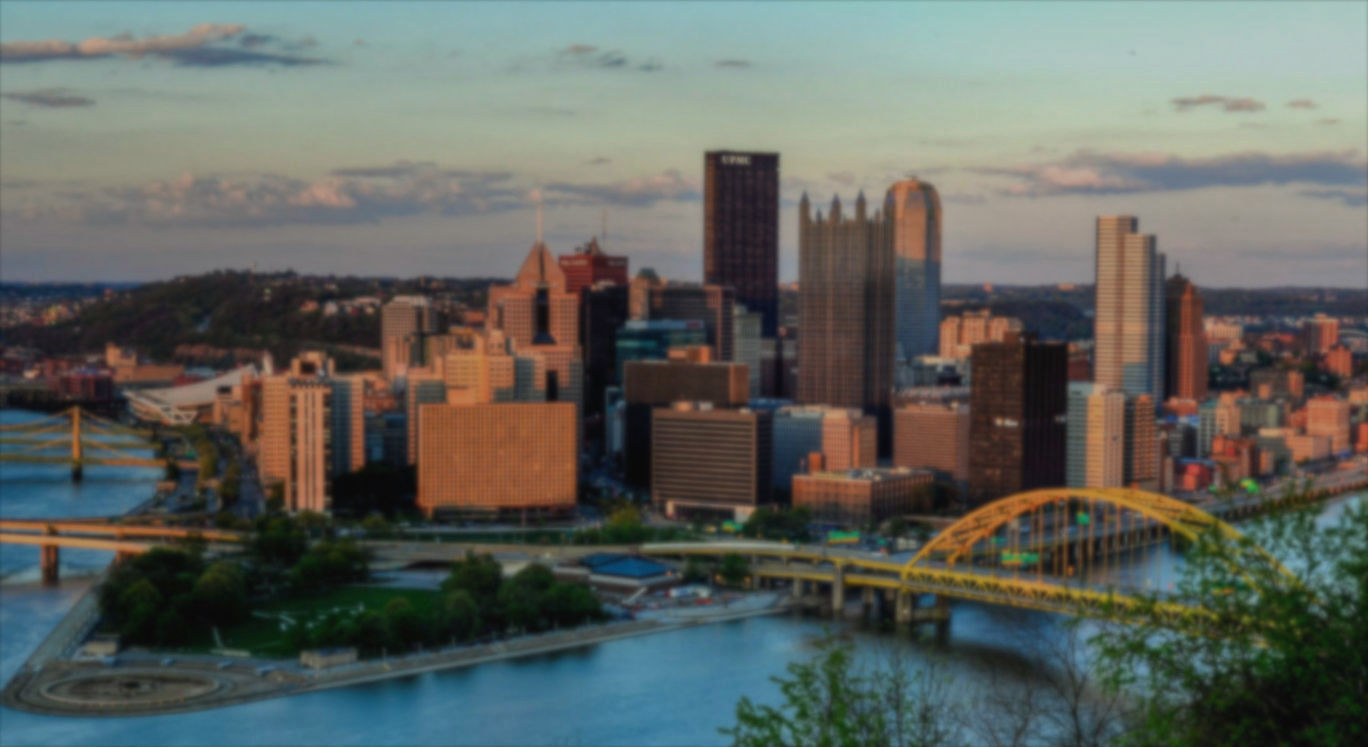
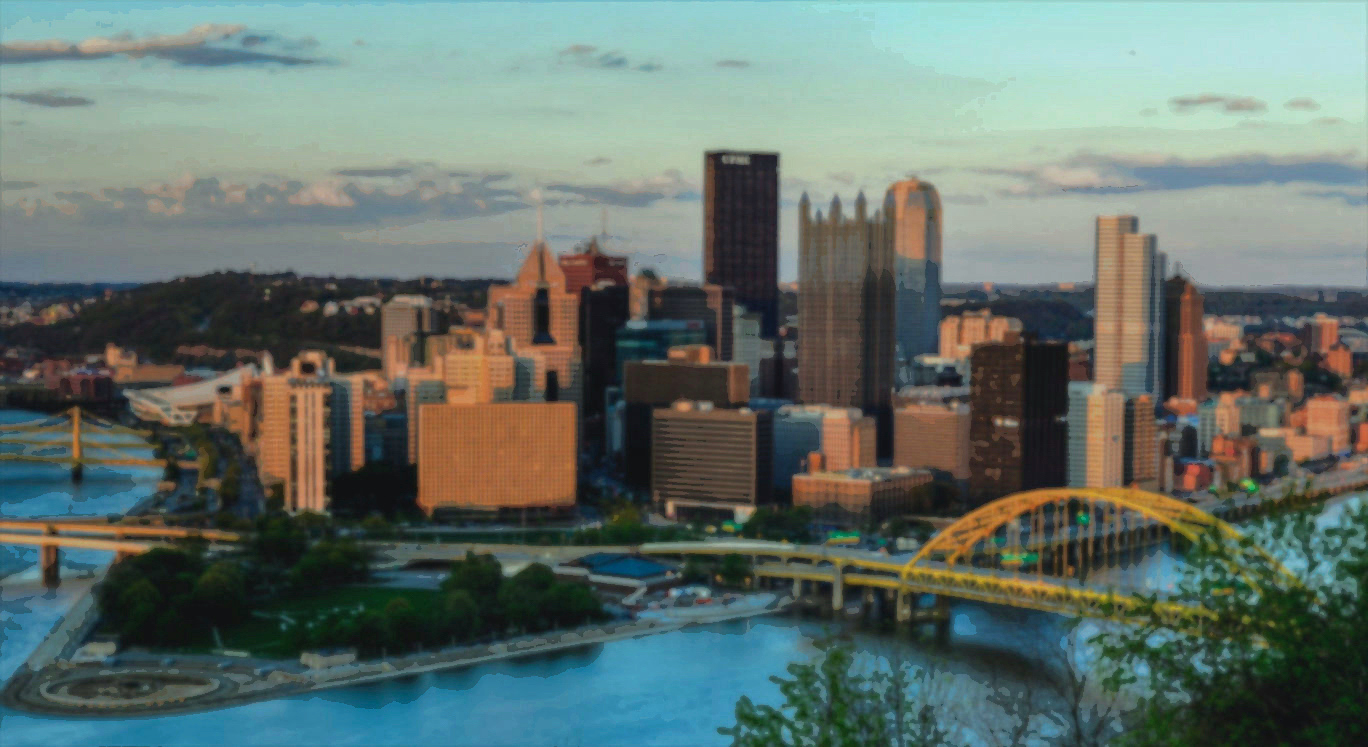
Increased project card size. Edited background image.

diff --git a/index.html b/index.html
@@ -29,7 +29,7 @@
     <link href="https://fonts.googleapis.com/css?family=Josefin+Sans|Shadows+Into+Light" rel="stylesheet">
 
     <!-- Theme CSS -->
-    <link href="css/grayscale.css" rel="stylesheet">
+    <link href="css/oneplus.css" rel="stylesheet">
 
     <!-- HTML5 Shim and Respond.js IE8 support of HTML5 elements and media queries -->
     <!-- WARNING: Respond.js doesn't work if you view the page via file:// -->
@@ -158,7 +158,7 @@
         <h2>VOLUNTEER PROJECTS</h2>
         <br>
         <div class="row sites">
-            <div class="col-md-2">
+            <div class="col-md-3">
                 <div class="w3-card-4 site-card">
                     <h4>52Lots: African Healing Garden</h4>
                     <h6>*Family-friendly</h6>
@@ -166,177 +166,177 @@
                 </div>
             </div>
 
-            <div class="col-md-2">
+            <div class="col-md-3">
                 <div class="w3-card-4 site-card">
                     <h4>Access Mob Pittsburgh</h4>
                     <h6>*Family-friendly</h6>
                     <button type="button" class="btn btn-circle-white" data-toggle="tooltip" data-placement="right" title="Activities may vary but might include; landscaping (weather dependent), making enrichment items for cats and rabbits, shelter cleaning, donation sorting. Day includes a tour of the facility and a supervised animal interaction."><i class="fa fa-info-circle"></i></button></div>
             </div>
 
-            <div class="col-md-2">
+            <div class="col-md-3">
                 <div class="w3-card-4 site-card">
                     <h4>Animal Friends</h4>
                     <h6>*Family-friendly</h6>
                     <button type="button" class="btn btn-circle-white" data-toggle="tooltip" data-placement="right" title="Outdoor trail maintenance."><i class="fa fa-info-circle"></i></button></div>
             </div>
 
-            <div class="col-md-2">
+            <div class="col-md-3">
                 <div class="w3-card-4 site-card">
                     <h4>Arsenal Family &amp; Children's Center</h4>
                     <button type="button" class="btn btn-circle-white" data-toggle="tooltip" data-placement="right" title="Outdoor beautification - includes raking, mulching, sweeping, weeding, and general cleaning."><i class="fa fa-info-circle"></i></button></div>
             </div>
 
-            <div class="col-md-2">
+            <div class="col-md-3">
                 <div class="w3-card-4 site-card">
                     <h4>Beechview Urban Garden Group Yinzers</h4>
                     <h6>*Family-friendly</h6>
                     <button type="button" class="btn btn-circle-white" data-toggle="tooltip" data-placement="right" title="Outdoor beautification, including mulching, weeding, clearing out garden beds, and general gardening work."><i class="fa fa-info-circle"></i></button></div>
             </div>
 
-            <div class="col-md-2">
+            <div class="col-md-3">
                 <div class="w3-card-4 site-card">
                     <h4>Borough of Wilkinsburg</h4>
                     <h6>*Family-friendly</h6>
                     <button type="button" class="btn btn-circle-white" data-toggle="tooltip" data-placement="left" title="Clearing trails, cutting brush, chipping brush, splitting logs with log splitter, removing pool cover, landscaping, litter pickup, stream bank work, painting."><i class="fa fa-info-circle"></i></button></div>
             </div>
 
-            <div class="col-md-2">
+            <div class="col-md-3">
                 <div class="w3-card-4 site-card">
                     <h4>Camp Guyasuta, BSA</h4>
                     <h6>*Family-friendly</h6>
                     <button type="button" class="btn btn-circle-white" data-toggle="tooltip" data-placement="right" title="Cleaning books, checking to be sure all labels are in place, pulling any that are damaged, being sure books are in order."><i class="fa fa-info-circle"></i></button></div>
             </div>
 
-            <div class="col-md-2">
+            <div class="col-md-3">
                 <div class="w3-card-4 site-card">
                     <h4>CMU Children's School</h4>
                     <h6>*Family-friendly</h6>
                     <button type="button" class="btn btn-circle-white" data-toggle="tooltip" data-placement="right" title="Spring garden clean-up, planting of new plants, outdoor beautification."><i class="fa fa-info-circle"></i></button></div>
             </div>
 
-            <div class="col-md-2">
+            <div class="col-md-3">
                 <div class="w3-card-4 site-card">
                     <h4>De Ruad Resident Council</h4>
                     <h6>*Family-friendly</h6>
                     <button type="button" class="btn btn-circle-white" data-toggle="tooltip" data-placement="right" title="Trash pick-up, sweeping sidewalks, window washing, planting (depends on weather)."><i class="fa fa-info-circle"></i></button></div>
             </div>
 
-            <div class="col-md-2">
+            <div class="col-md-3">
                 <div class="w3-card-4 site-card">
                     <h4>Friends of the Riverfront</h4>
                     <h6>*Family-friendly</h6>
                     <button type="button" class="btn btn-circle-white" data-toggle="tooltip" data-placement="right" title="Outdoor beautification along the North Shore Segment of the Three Rivers Heritage Trail."><i class="fa fa-info-circle"></i></button></div>
             </div>
 
-            <div class="col-md-2">
+            <div class="col-md-3">
                 <div class="w3-card-4 site-card">
                     <h4>Garfield Community Action Team</h4>
                     <h6>*Family-friendly</h6>
                     <button type="button" class="btn btn-circle-white" data-toggle="tooltip" data-placement="right" title="Outdoor beautification. Helping with a community garden."><i class="fa fa-info-circle"></i></button></div>
             </div>
 
-            <div class="col-md-2">
+            <div class="col-md-3">
                 <div class="w3-card-4 site-card">
                     <h4>Global Links</h4>
                     <h6>*Family-friendly</h6>
                     <button type="button" class="btn btn-circle-white" data-toggle="tooltip" data-placement="left" title="Sorting and packing medical supplies to help improve healthcare in resource-poor communities."><i class="fa fa-info-circle"></i></button></div>
             </div>
 
-            <div class="col-md-2">
+            <div class="col-md-3">
                 <div class="w3-card-4 site-card">
                     <h4>Habitat for Humanity of Greater Pittsburgh</h4>
                     <h6>*Family-friendly</h6>
                     <button type="button" class="btn btn-circle-white" data-toggle="tooltip" data-placement="right" title="Preparing a community garden for the upcoming gardening season (spreading mulch, repairing a fence, helping kids to paint bird houses, spreading compost)."><i class="fa fa-info-circle"></i></button></div>
             </div>
 
-            <div class="col-md-2">
+            <div class="col-md-3">
                 <div class="w3-card-4 site-card">
                     <h4>Jubilee Association, Inc.</h4>
                     <button type="button" class="btn btn-circle-white" data-toggle="tooltip" data-placement="right" title="Cleaning up, preparing and serving food at a local soup kitchen."><i class="fa fa-info-circle"></i></button></div>
             </div>
 
-            <div class="col-md-2">
+            <div class="col-md-3">
                 <div class="w3-card-4 site-card">
                     <h4>Just Harvest</h4>
                     <button type="button" class="btn btn-circle-white" data-toggle="tooltip" data-placement="right" title="Indoor office beautification - possible painting - for an organization that works against hunger and poverty."><i class="fa fa-info-circle"></i></button></div>
             </div>
 
-            <div class="col-md-2">
+            <div class="col-md-3">
                 <div class="w3-card-4 site-card">
                     <h4>Light of Life</h4>
                     <h6>*Family-friendly</h6>
                     <button type="button" class="btn btn-circle-white" data-toggle="tooltip" data-placement="right" title="Option 1: Sorting and organizing donations at the donation center, restocking the the store room. Option 2: Community cleanup around the North Shore parks and sidewalks."><i class="fa fa-info-circle"></i></button></div>
             </div>
 
-            <div class="col-md-2">
+            <div class="col-md-3">
                 <div class="w3-card-4 site-card">
                     <h4>Oakland Square Historic District Community Org.</h4>
                     <h6>*Family-friendly</h6>
                     <button type="button" class="btn btn-circle-white" data-toggle="tooltip" data-placement="right" title="Building a dry stack wall, moving dirt with shovels and wheel barrels, helping to create a small natural pond, and basic site cleanup."><i class="fa fa-info-circle"></i></button></div>
             </div>
 
-            <div class="col-md-2">
+            <div class="col-md-3">
                 <div class="w3-card-4 site-card">
                     <h4>Pittsburgh Downtown Partnership</h4>
                     <h6>*Family-friendly</h6>
                     <button type="button" class="btn btn-circle-white" data-toggle="tooltip" data-placement="left" title="Building a dry stack wall, moving dirt with shovels and wheel barrels, helping to create a small natural pond, and basic site cleanup."><i class="fa fa-info-circle"></i></button></div>
             </div>
 
-            <div class="col-md-2">
+            <div class="col-md-3">
                 <div class="w3-card-4 site-card">
                     <h4>Pittsburgh Lutheran Center for the Blind</h4>
                     <h6>*Family-friendly</h6>
                     <button type="button" class="btn btn-circle-white" data-toggle="tooltip" data-placement="right" title="Building a dry stack wall, moving dirt with shovels and wheel barrels, helping to create a small natural pond, and basic site cleanup."><i class="fa fa-info-circle"></i></button></div>
             </div>
 
-            <div class="col-md-2">
+            <div class="col-md-3">
                 <div class="w3-card-4 site-card">
                     <h4>Pittsburgh Parks Conservancy</h4>
                     <h6>*Family-friendly</h6>
                     <button type="button" class="btn btn-circle-white" data-toggle="tooltip" data-placement="right" title="Gardening, outdoor beautification, weeding and mulching."><i class="fa fa-info-circle"></i></button></div>
             </div>
 
-            <div class="col-md-2">
+            <div class="col-md-3">
                 <div class="w3-card-4 site-card">
                     <h4>Repair the World: Pittsburgh</h4>
                     <h6>*Family-friendly</h6>
                     <button type="button" class="btn btn-circle-white" data-toggle="tooltip" data-placement="right" title="Building a dry stack wall, moving dirt with shovels and wheel barrels, helping to create a small natural pond, and basic site cleanup."><i class="fa fa-info-circle"></i></button></div>
             </div>
 
-            <div class="col-md-2">
+            <div class="col-md-3">
                 <div class="w3-card-4 site-card">
                     <h4>Ronald McDonald House Charities of Pittsburgh</h4>
                     <button type="button" class="btn btn-circle-white" data-toggle="tooltip" data-placement="right" title="Cleaning the house."><i class="fa fa-info-circle"></i></button></div>
             </div>
 
-            <div class="col-md-2">
+            <div class="col-md-3">
                 <div class="w3-card-4 site-card">
                     <h4>Shadyside Chamber of Commerce</h4>
                     <h6>*Family-friendly</h6>
                     <button type="button" class="btn btn-circle-white" data-toggle="tooltip" data-placement="right" title="Litter clean up and beautification around Walnut, Ellsworth, and South Highland."><i class="fa fa-info-circle"></i></button></div>
             </div>
 
-            <div class="col-md-2">
+            <div class="col-md-3">
                 <div class="w3-card-4 site-card">
                     <h4>South Side Slopes Neighborhood Association</h4>
                     <h6>*Family-friendly</h6>
                     <button type="button" class="btn btn-circle-white" data-toggle="tooltip" data-placement="left" title="Building a dry stack wall, moving dirt with shovels and wheel barrels, helping to create a small natural pond, and basic site cleanup."><i class="fa fa-info-circle"></i></button></div>
             </div>
 
-            <div class="col-md-2">
+            <div class="col-md-3">
                 <div class="w3-card-4 site-card">
                     <h4>Trail Pittsburgh</h4>
                     <h6>*Family-friendly</h6>
                     <button type="button" class="btn btn-circle-white" data-toggle="tooltip" data-placement="right" title="Outdoor work building a trail."><i class="fa fa-info-circle"></i></button></div>
             </div>
 
-            <div class="col-md-2">
+            <div class="col-md-3">
                 <div class="w3-card-4 site-card">
                     <h4>Tree Pittsburgh</h4>
                     <button type="button" class="btn btn-circle-white" data-toggle="tooltip" data-placement="right" title="Clearing out hillside of shrubs and vines to make way for a food forest trail."><i class="fa fa-info-circle"></i></button></div>
             </div>
 
-            <div class="col-md-2">
+            <div class="col-md-3">
                 <div class="w3-card-4 site-card">
                     <h4>Vintage, Inc.</h4>
                     <h6>*Family-friendly</h6>
@@ -471,7 +471,7 @@
     <script src="http://cdnjs.cloudflare.com/ajax/libs/jquery-easing/1.3/jquery.easing.min.js"></script>
 
     <!-- Theme JavaScript -->
-    <script src="js/grayscale.min.js"></script>
+    <script src="js/oneplus.min.js"></script>
     <!-- Twitter Embed -->
     <script id="twitter-wjs" type="text/javascript" src="https://platform.twitter.com/widgets.js"></script>
     <!-- Enable tooltip -->

diff --git a/css/oneplus.css b/css/oneplus.css
@@ -25,8 +25,7 @@ h1 {
 h2,
 h3,
 h4,
-h5,
-h6 {
+h5{
   margin: 0 0 5px;
 font-family: 'Josefin Sans', sans-serif;  font-weight: 700;
   letter-spacing: 1px;
@@ -41,8 +40,11 @@ h5 {
 }
 
 h6 {
+  margin: 0 0 0 0;
   font-size: 11px;
-  font-weight: 300;
+  font-weight: 500;
+  font-family: 'Josefin Sans', sans-serif;
+  letter-spacing: 1px;
 }
 p {
   margin: 0 0 5px;
